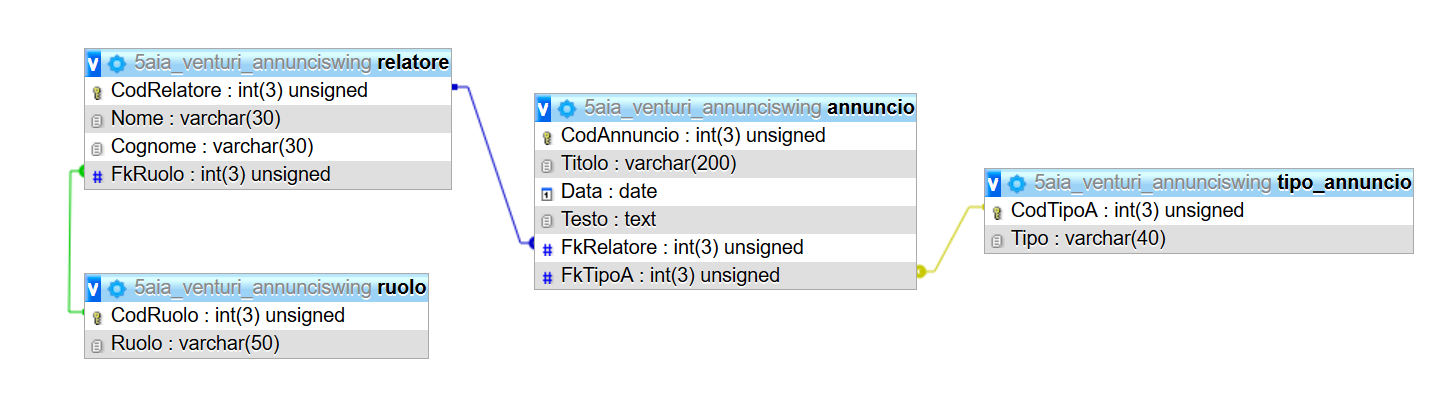
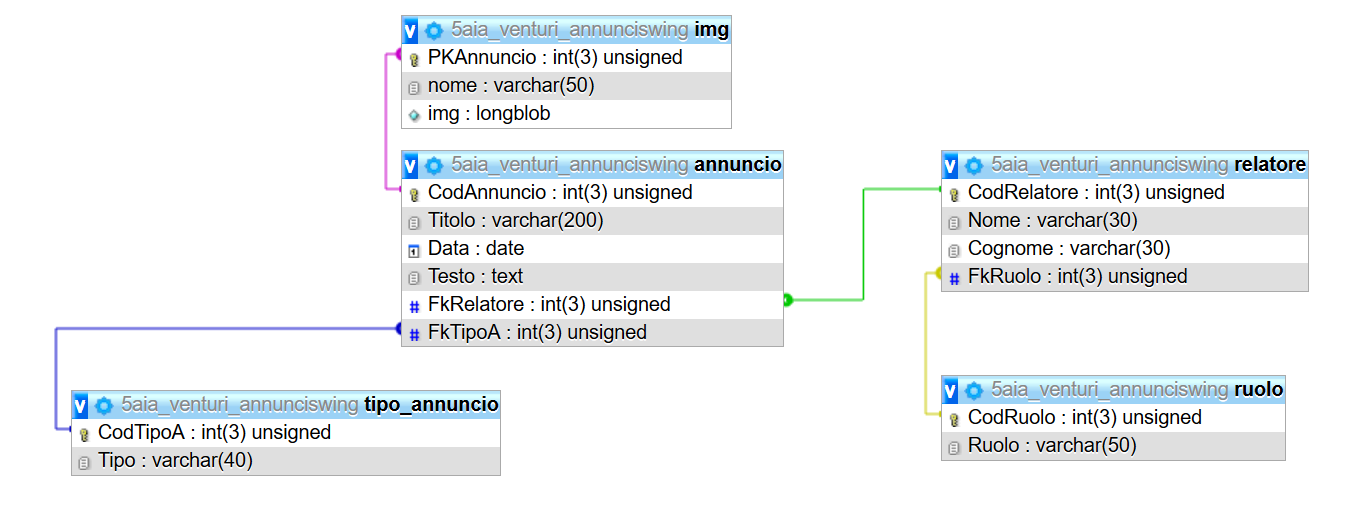
v0.2 ready

diff --git a/Java3-JDBC/5AIA_Venturi_AnnunciSwing/src/pkg5aia_venturi_annunciswing/GUI.java b/Java3-JDBC/5AIA_Venturi_AnnunciSwing/src/pkg5aia_venturi_annunciswing/GUI.java
@@ -2,10 +2,17 @@ package pkg5aia_venturi_annunciswing;
 
 import java.awt.*;
 import java.awt.event.*;
+import java.awt.image.BufferedImage;
+import java.io.File;
+import java.io.FileInputStream;
+import java.io.IOException;
 import javax.swing.*;
 import java.sql.*;
+import java.util.logging.Level;
+import java.util.logging.Logger;
 import static javax.swing.ListSelectionModel.SINGLE_SELECTION;
 import javax.swing.event.*;
+import javax.swing.filechooser.FileNameExtensionFilter;
 
 public class GUI extends JFrame implements ActionListener 
 {
@@ -23,6 +30,10 @@ public class GUI extends JFrame implements ActionListener
     String[] columnNamesAnn = {"Data", "Titolo", "Relatore"};
     int numRows, cnt, ind_row;
     int dialogBtns = JOptionPane.YES_NO_OPTION, dialogInfo = JOptionPane.INFORMATION_MESSAGE;
+    FileNameExtensionFilter filter = new FileNameExtensionFilter("Images( .jpg .jpeg .png .gif)", "jpg", "png", "gif", "jpeg");
+    File selectedFile = new File("");
+    FileInputStream fileInputStream;
+    boolean fileChosen = false;
     
 /**********************************************/
 /*      DICHIARAZIONE COMPONENTI GRAFICHE     */
@@ -72,6 +83,12 @@ public class GUI extends JFrame implements ActionListener
     JComboBox cbTipo = new JComboBox(modelTipo);
     final DefaultComboBoxModel modelRel = new DefaultComboBoxModel();
     JComboBox cbRel = new JComboBox(modelRel);
+    
+    JButton btnFile = new JButton("IMG");
+    final JFileChooser fileChooser = new JFileChooser();
+    JButton btnFileDel = new JButton("X");
+    ImageIcon imgSel;
+    JLabel lblImg = new JLabel(); 
     
     private JButton btnIns2 = new JButton("INSERISCI");
     private JButton btnReset2 = new JButton("C");
@@ -209,15 +226,22 @@ public class GUI extends JFrame implements ActionListener
         cbRel.setFont(null);
         btnIns2.setFont(null);
         btnReset2.setFont(null);
+        btnFile.setFont(null);
+        btnFileDel.setFont(null);
         
         btnIns2.setBackground(Color.GREEN);
         btnIns2.setCursor(new Cursor(Cursor.HAND_CURSOR));
         btnReset2.setBackground(Color.RED);
         btnReset2.setCursor(new Cursor(Cursor.HAND_CURSOR));
+        btnFile.setCursor(new Cursor(Cursor.HAND_CURSOR));
+        btnFileDel.setBackground(Color.RED);
+        btnFileDel.setCursor(new Cursor(Cursor.HAND_CURSOR));
         
         btnReset2.setToolTipText("RESET dei campi");
+        btnFileDel.setToolTipText("Togli l'immagine");
         
         btnReset2.setBounds(600,10,50,50);  
+        lblImg.setVisible(false);
                 
         lblTit.setBounds(50,40,200,30); //x, y, largh, alt
         lblData.setBounds(50,100,200,30);
@@ -230,6 +254,9 @@ public class GUI extends JFrame implements ActionListener
         cbRel.setBounds(330,220,200,30);
         //txtTesto.setBounds(160,280,460,240); non necessario
         scrollPaneTesto.setBounds(20,305,420,240);
+        btnFile.setBounds(480,280,90,50);
+        btnFileDel.setBounds(580,280,55,50);
+        lblImg.setBounds(470,360,180,180);
         btnIns2.setBounds(420,560,200,50);
         
         //3]ShRel
@@ -291,6 +318,9 @@ public class GUI extends JFrame implements ActionListener
         p[1].add(scrollPaneTesto);
         p[1].add(btnIns2);
         p[1].add(btnReset2);
+        p[1].add(btnFile);
+        p[1].add(btnFileDel);
+        p[1].add(lblImg);
         
         //3]ShRel
         
@@ -346,7 +376,10 @@ public class GUI extends JFrame implements ActionListener
         
         btnIns2.addActionListener(new ActionListener() {
             public void actionPerformed(ActionEvent evt) {
-                btnIns2ActionPerformed(evt);
+                try {
+                    btnIns2ActionPerformed(evt);
+                } catch (IOException ex) {
+                }
             }
         });
         
@@ -358,7 +391,10 @@ public class GUI extends JFrame implements ActionListener
         
         btnReset2.addActionListener(new ActionListener() {
             public void actionPerformed(ActionEvent evt) {
-                btnReset2ActionPerformed(evt);
+                try {
+                    btnReset2ActionPerformed(evt);
+                } catch (IOException ex) {
+                }
             }
         });
         
@@ -371,6 +407,18 @@ public class GUI extends JFrame implements ActionListener
         btnEli.addActionListener(new ActionListener() {
             public void actionPerformed(ActionEvent evt) {
                 btnEliActionPerformed(evt);
+            }
+        });
+        
+        btnFile.addActionListener(new ActionListener() {
+            public void actionPerformed(ActionEvent evt) {
+                btnFileActionPerformed(evt);
+            }
+        });
+        
+        btnFileDel.addActionListener(new ActionListener() {
+            public void actionPerformed(ActionEvent evt) {
+                btnFileDelActionPerformed(evt);
             }
         });
         
@@ -454,12 +502,41 @@ public class GUI extends JFrame implements ActionListener
             }
         } catch (Exception e) {  }
         
+        selectedFile = new File("");
+        fileInputStream = null;
+        fileChosen = false;
+        
         setContentPane(p[1]);
         getContentPane().add(btnBack);
         revalidate();
     }
     
-    private void btnIns2ActionPerformed(ActionEvent evt){
+    private void btnFileActionPerformed(ActionEvent evt){
+        try {
+            fileChooser.setFileFilter(filter);
+            fileChooser.setCurrentDirectory(new File(System.getProperty("user.home")));
+            if (fileChooser.showOpenDialog(this) == JFileChooser.APPROVE_OPTION) {
+                fileChosen = true;
+                
+                imgSel = new ImageIcon(fileChooser.getSelectedFile().getAbsolutePath());
+                //Proporzione per la largehzza  larghOr : altOr = larghRes : x
+                imgSel = new ImageIcon(getScaledImage(imgSel.getImage(), lblImg.getWidth(), (imgSel.getIconHeight()*lblImg.getWidth()) / imgSel.getIconWidth() ) );
+                
+                lblImg.setIcon(imgSel);
+                lblImg.setVisible(true);
+                p[1].repaint();
+                revalidate();
+            }
+        } catch (Exception e) {
+            e.getMessage();
+        }
+    }
+    
+    private void btnFileDelActionPerformed(ActionEvent evt){
+        svuotaImg();
+    }
+    
+    private void btnIns2ActionPerformed(ActionEvent evt) throws IOException{
         valori = svuotaArr(valori);
         valori[0] = capitalize1(txtTitolo.getText());
         valori[1] = txtData.getText();
@@ -491,24 +568,57 @@ public class GUI extends JFrame implements ActionListener
                 }
             } catch (Exception e) {  }
 
-            query = "INSERT INTO annuncio (titolo, data, testo, FkTipoA, FkRelatore)"
-                    + " VALUES (?, ?, ?, ?, ?)";
+            query = "INSERT INTO `annuncio` (`CodAnnuncio`, `Titolo`, `Data`, `Testo`, `FkRelatore`, `FkTipoA`) "
+                    + "VALUES (NULL, ?, ?, ?, ?, ?)";
             try {
                 statementPr = connessione.prepareStatement(query);
                 statementPr.setString(1, valori[0]);
                 statementPr.setString(2, valori[1]);
                 statementPr.setString(3, valori[2]);
+                
                 statementPr.setInt(4, cod_selected_text[0]);
                 statementPr.setInt(5, cod_selected_text[1]);
+                System.out.println(statementPr.toString());
+                if (statementPr.executeUpdate() > 0) {
+                    if(fileChosen) {
+                        cod_selected_text = new int[1];
+                        query = "SELECT MAX(CodAnnuncio) FROM annuncio";
+                        try {
+                            statement = connessione.createStatement();
+                            resultSet = statement.executeQuery(query);
+                            if (resultSet.next()) {
+                                cod_selected_text[0] = Integer.parseInt(resultSet.getString(1));
+                            }
+                        } catch (Exception e) {  }
 
-                int rowsInserted = statementPr.executeUpdate();
-                if (rowsInserted > 0) {
-                    inserted(true);
-                    svuota2();
+                        query = "insert into IMG values(?,?,?);";
+                        try {
+                            statementPr = connessione.prepareStatement(query);
+                            statementPr.setInt(1, cod_selected_text[0]);
+                            File selectedFile = fileChooser.getSelectedFile();
+                            statementPr.setString(2, selectedFile.getName());
+                            fileInputStream = new FileInputStream(selectedFile);
+                            statementPr.setBinaryStream(3, fileInputStream, fileInputStream.available());
+                            System.out.println(statementPr.toString());
+                        } catch (Exception e) {  }
+                        if (statementPr.executeUpdate() > 0) {
+                            inserted(true);
+                            svuota2();
+                        } else {
+                            inserted(false);
+                        }
+                    
+                    } else {
+                        inserted(true);
+                        svuota2();
+                    }
                 } else {
                     inserted(false);
                 }
-            } catch (Exception e) { 
+            } catch (SQLException e) { 
+                e.getMessage();
+                e.getStackTrace();
+                e.getSuppressed();
                 inserted(false);
             }
         }
@@ -612,7 +722,7 @@ public class GUI extends JFrame implements ActionListener
                     cod_selected_text[cnt] = Integer.parseInt(resultSet.getString(5));
                     cnt++;
                 }
-            } catch (Exception e) {  }
+            } catch (NumberFormatException | SQLException e) {  }
 
             if (cnt != 0) {
                 tableAnn = new JTable(dataAnn, columnNamesAnn);
@@ -690,7 +800,7 @@ public class GUI extends JFrame implements ActionListener
         svuota1();
     }
     
-    private void btnReset2ActionPerformed(ActionEvent evt){
+    private void btnReset2ActionPerformed(ActionEvent evt) throws IOException{
         svuota2();
     }
    
@@ -760,22 +870,46 @@ public class GUI extends JFrame implements ActionListener
         numRows = cnt = ind_row = 0;
         cod_selected_text = null;
         dataAnn = dataRel = null;
+        selectedFile = new File("");
+        fileInputStream = null;
     }
     
     private void svuota1() {
         txtNomeRel.setText("");
         txtCogRel.setText("");
         cbRuolo.setSelectedIndex(0);
+        
         revalidate();
     }
     
-    private void svuota2() {
+    private void svuota2() throws IOException {
         txtTitolo.setText("");
         txtData.setText("");
         txtTesto.setText("");
         cbTipo.setSelectedIndex(0);
         cbRel.setSelectedIndex(0);
+        svuotaImg();
+        
         revalidate();
+    }
+    
+    private void svuotaImg() {
+        selectedFile = new File("");
+        fileInputStream = null;
+        fileChosen = false;
+        lblImg.setIcon(null);
+        lblImg.setVisible(false);
+    }
+    
+    private Image getScaledImage(Image srcImg, int w, int h){
+        BufferedImage resizedImg = new BufferedImage(w, h, BufferedImage.TYPE_INT_ARGB);
+        Graphics2D g2 = resizedImg.createGraphics();
+
+        g2.setRenderingHint(RenderingHints.KEY_INTERPOLATION, RenderingHints.VALUE_INTERPOLATION_BILINEAR);
+        g2.drawImage(srcImg, 0, 0, w, h, null);
+        g2.dispose();
+
+        return resizedImg;
     }
     
     public void infoBox(String msg, String title)

diff --git a/Java3-JDBC/GUI_NB_prova/src/NewJFrame.java b/Java3-JDBC/GUI_NB_prova/src/NewJFrame.java
@@ -19,6 +19,7 @@ public class NewJFrame extends javax.swing.JFrame {
         jScrollPane2 = new javax.swing.JScrollPane();
         jTextArea1 = new javax.swing.JTextArea();
         jPanel2 = new javax.swing.JPanel();
+        jFileChooser1 = new javax.swing.JFileChooser();
 
         jTextArea1.setColumns(20);
         jTextArea1.setRows(5);
@@ -26,15 +27,27 @@ public class NewJFrame extends javax.swing.JFrame {
 
         setDefaultCloseOperation(javax.swing.WindowConstants.EXIT_ON_CLOSE);
 
+        jFileChooser1.addActionListener(new java.awt.event.ActionListener() {
+            public void actionPerformed(java.awt.event.ActionEvent evt) {
+                jFileChooser1ActionPerformed(evt);
+            }
+        });
+
         javax.swing.GroupLayout jPanel2Layout = new javax.swing.GroupLayout(jPanel2);
         jPanel2.setLayout(jPanel2Layout);
         jPanel2Layout.setHorizontalGroup(
             jPanel2Layout.createParallelGroup(javax.swing.GroupLayout.Alignment.LEADING)
-            .addGap(0, 1070, Short.MAX_VALUE)
+            .addGroup(jPanel2Layout.createSequentialGroup()
+                .addGap(75, 75, 75)
+                .addComponent(jFileChooser1, javax.swing.GroupLayout.PREFERRED_SIZE, javax.swing.GroupLayout.DEFAULT_SIZE, javax.swing.GroupLayout.PREFERRED_SIZE)
+                .addContainerGap(161, Short.MAX_VALUE))
         );
         jPanel2Layout.setVerticalGroup(
             jPanel2Layout.createParallelGroup(javax.swing.GroupLayout.Alignment.LEADING)
-            .addGap(0, 658, Short.MAX_VALUE)
+            .addGroup(jPanel2Layout.createSequentialGroup()
+                .addGap(56, 56, 56)
+                .addComponent(jFileChooser1, javax.swing.GroupLayout.PREFERRED_SIZE, javax.swing.GroupLayout.DEFAULT_SIZE, javax.swing.GroupLayout.PREFERRED_SIZE)
+                .addContainerGap(201, Short.MAX_VALUE))
         );
 
         javax.swing.GroupLayout layout = new javax.swing.GroupLayout(getContentPane());
@@ -55,6 +68,10 @@ public class NewJFrame extends javax.swing.JFrame {
 
         pack();
     }// </editor-fold>//GEN-END:initComponents
+
+    private void jFileChooser1ActionPerformed(java.awt.event.ActionEvent evt) {//GEN-FIRST:event_jFileChooser1ActionPerformed
+        // TODO add your handling code here:
+    }//GEN-LAST:event_jFileChooser1ActionPerformed
 
     /**
      * @param args the command line arguments
@@ -92,6 +109,7 @@ public class NewJFrame extends javax.swing.JFrame {
     }
 
     // Variables declaration - do not modify//GEN-BEGIN:variables
+    private javax.swing.JFileChooser jFileChooser1;
     private javax.swing.JPanel jPanel2;
     private javax.swing.JScrollPane jScrollPane2;
     private javax.swing.JTextArea jTextArea1;
